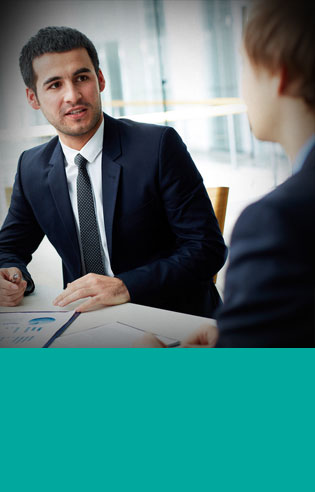
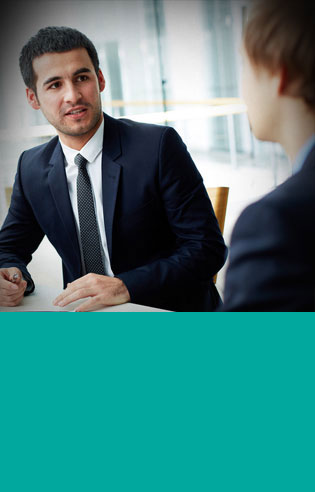
Styles for japanesse second block of contents

Changed region(s): [[0.0, 0.6098, 1.0, 0.7317]]

diff --git a/app/assets/stylesheets/pages.css.scss b/app/assets/stylesheets/pages.css.scss
@@ -92,6 +92,89 @@
 	line-height: 1.5;
 }
 
+.choose-lessons .col-md-3 a{
+	height: 492px;
+	position: relative;
+	display: block;
+	padding: 0px;
+}
+
+.academic-discussion .media-cover{
+	background: image-url('academic-discussion.jpg') no-repeat;
+	background-size: cover;
+	position: absolute;
+  top: 0;
+  bottom: 0;
+  left: 0;
+  right: 0;
+}
+
+.business-discussion .media-cover{
+	background: image-url('business-discussion.jpg') no-repeat;
+	background-size: cover;
+	position: absolute;
+  top: 0;
+  bottom: 0;
+  left: 0;
+  right: 0;
+}
+
+.us-study .media-cover{
+	background: image-url('us-study-support.jpg') no-repeat;
+	background-size: cover;
+	position: absolute;
+  top: 0;
+  bottom: 0;
+  left: 0;
+  right: 0;
+}
+
+.mba-study .media-cover{
+	background: image-url('mba-study-support.jpg') no-repeat;
+	background-size: cover;
+	position: absolute;
+  top: 0;
+  bottom: 0;
+  left: 0;
+  right: 0;
+}
+
+.academic-discussion .media-text-inner{
+	 background-color: #3f768a;
+}
+
+.business-discussion .media-text-inner{
+	 background-color: #01a89e;
+}
+
+.us-study .media-text-inner{
+	 background-color: #408b62;
+}
+
+.mba-study .media-text-inner{
+	 background-color: #608c41;
+}
+
+.media-text{
+	vertical-align: bottom;
+	float: none;
+  display: table-cell;
+  width: 100%;
+  position: relative;
+}
+.media-text-inner{
+	padding: 24px;
+	margin: 0px 15px;
+}
+.media-text h3{
+	color: white;
+	margin-top: 0px;
+	font-size: 18px;
+}
+.media-text p{
+	color: white;
+	font-size: 13px;
+}
 
 
 @media only screen and (min-width: 320px) and (max-width: 480px) {

diff --git a/app/assets/stylesheets/bootstrap_and_customization.css.scss b/app/assets/stylesheets/bootstrap_and_customization.css.scss
@@ -151,6 +151,19 @@ section.sm{
 	justify-content: space-between;
 }
 
+.row.row-table {
+  width: 100%;
+  width: calc(100% + 30px);
+}
+
+.row.row-full-height {
+  height: 100%;
+}
+
+.row-table {
+  display: table;
+  table-layout: fixed;
+}
 
 .reg-header{
 	padding: 40px 36px 0px 36px;
